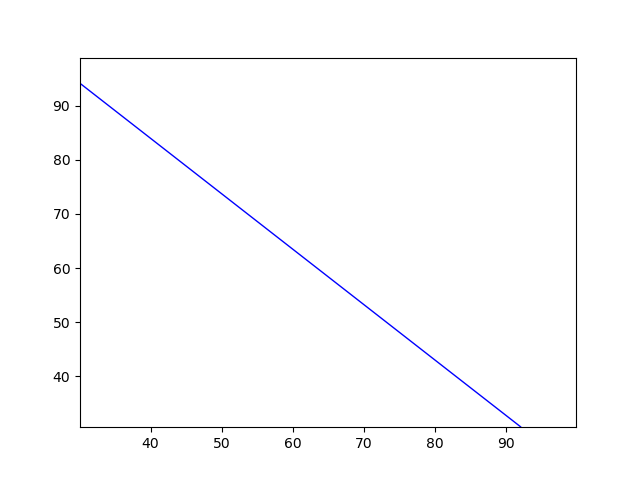
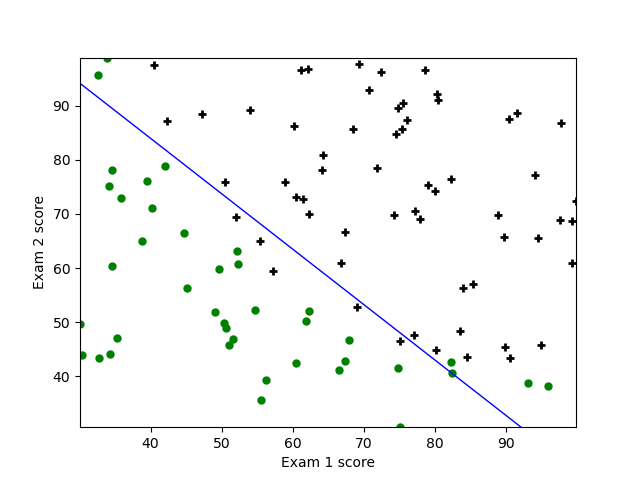
avanzando con la p2

diff --git a/p2/p2_2.py b/p2/p2_2.py
@@ -1,0 +1,129 @@
+
+import numpy as np
+import matplotlib.pyplot as plt
+from numpy.lib import polynomial
+import scipy.optimize as opt
+import math
+import sklearn.preprocessing as sp
+from mpl_toolkits.mplot3d import Axes3D
+from matplotlib import cm
+from matplotlib.ticker import LinearLocator, FormatStrFormatter
+from pandas.io.parsers import read_csv
+
+# Calcula la funcion sigmoide 
+def sigmoide(z):
+    return 1/(1+math.e**(-z))
+
+# 2.2 Calcula el coste (regularizado)
+def coste(theta, X, Y ,_lambda):
+    H = sigmoide(np.matmul(X,theta)) # dot?
+    m = np.shape(X)[0]
+    #esto funciona por el tamaño de las matrices. usamos la formula con las traspuestas
+    #coste = (-1 / m) * (np.dot(Y, np.log(H)) + np.dot((1-Y),np.log(1 - H)))
+    
+    coste = (- 1 / (len(X))) * np.sum( Y * np.log(H) + (1 - Y) * np.log(1 - H) )
+
+    regularizacion = (_lambda /(2+m) ) * np.sum(np.power(theta,2))
+    coste += regularizacion
+    return coste
+
+
+
+# 2.2 Calcula el gradiente (regularizado)
+def gradiente(Theta, X, Y, _lambda):
+    H = sigmoide(np.matmul(X, Theta))
+    m = np.shape(X)[0]
+
+    return (1/m) * np.matmul(np.transpose(X), H - Y) + ((_lambda / m ) * Theta)
+
+# #Devuelve el theta que buscamos
+# def descenso_gradiente(X,Y,Theta):
+#     costes = np.zeros(10)    
+#     for a in range(10):
+#         Theta=gradiente(Theta, X,Y)
+#         costes[a]=coste(Theta, X,Y)   
+#     return Theta
+
+
+
+
+def plot_decisionboundary(X, Y, theta, poly):
+    #plt.figure()
+    x1_min, x1_max = np.min(X[:, 0]), np.max(X[:, 0])#min y max de x1
+    x2_min, x2_max = np.min(X[:, 1]), np.max(X[:, 1])#min y max de x2
+    xx1, xx2 = np.meshgrid(np.linspace(x1_min, x1_max), np.linspace(x2_min, x2_max))
+    #poly=sp.PolynomialFeatures(6)
+    #
+    #h = sigmoide(np.dot(np.c_[np.ones((np.ravel(xx1).shape[0], 1)), np.ravel(xx1), np.ravel(xx2 )],theta))
+    # print(np.shape(aux))
+    # print(np.shape(theta))
+    h = sigmoide(np.dot(poly.fit_transform(np.c_[np.ravel(xx1),np.ravel(xx2 )]) ,theta))
+    h = np.reshape(h,np.shape(xx1))
+    plt.contour(xx1, xx2, h, [0.5], linewidths=1, colors='g')
+    plt.savefig("prueba.png")
+    plt.close()
+
+
+# def pinta_frontera(Theta, X, Y):
+#     #plt.figure()
+#     x1_min, x1_max = np.min(X[:, 1]), np.max(X[:, 1])#min y max de x1
+#     x2_min, x2_max = np.min(X[:, 2]), np.max(X[:, 2])#min y max de x2
+
+#     xx1, xx2 = np.meshgrid(np.linspace(x1_min, x1_max), np.linspace(x2_min, x2_max))
+
+#     #np.ones añade una columna de 1s
+#     h = sigmoide(np.dot(np.c_[np.ones((np.ravel(xx1).shape[0], 1)),
+#                  np.ravel(xx1), #vector columna
+#                 np.ravel(xx2 )],Theta))
+    
+#     h = np.reshape(h, np.shape(xx1))
+
+#     # el cuarto parámetro es el valor de z cuya frontera se quiere pintar
+#     plt.contour(xx1, xx2, h, [0.5], linewidths=1, colors='b')
+#     plt.savefig("frontera.png")
+#     plt.close()
+
+def main():
+    valores = read_csv("ex2data2.csv", header=None).to_numpy()
+    X = valores[:, :-1]
+    Y = valores[:, -1]
+    n = np.shape(X)[1]  
+    m = np.shape(X)[0]
+
+    #apartado 2.1
+    poly = sp.PolynomialFeatures(6).fit_transform(X)
+    
+    #print(np.shape(X)[1])
+
+
+    #X=np.hstack([np.ones([m,1]), X])
+    #print(X)
+    Theta = np.zeros(np.shape(poly)[1])
+    print(np.shape(poly)[1])
+    print(np.shape(Theta))
+
+    # 2.1 Grafica de los valores
+    pos = np.where(Y == 1)
+    plt.scatter(poly[pos, 1], poly[pos, 2], marker = '+', c='k', linewidths=2.0)
+    pos = np.where(Y == 0)
+    plt.scatter(poly[pos, 1], poly[pos, 2], marker = '.', c='green', linewidths=3.0)
+    plt.xlabel('Microchip test 1')
+    plt.ylabel('Microchip test 2')
+
+    #plt.legend('Admitted')
+    
+    #plt.show()  
+    #print(coste(Theta, X, Y, 1000))
+    #print(gradiente(Theta,X, Y, 1))
+    _lamda = 1000
+    result=opt.fmin_tnc(func=coste, x0 = Theta, fprime = gradiente, args=(poly, Y, _lamda))
+    theta_opt = result[0]
+
+    #print(np.shape(theta_opt)[0])
+
+    plt.savefig("prueba.png")
+    plot_decisionboundary(X,Y,theta_opt, poly)
+
+   
+
+main()

diff --git a/p2/p2_1.py b/p2/p2_1.py
@@ -35,7 +35,7 @@ def gradiente(Theta, X, Y):
 #     return Theta
 
 def pinta_frontera(Theta, X, Y):
-    plt.figure()
+    #plt.figure()
     x1_min, x1_max = np.min(X[:, 1]), np.max(X[:, 1])#min y max de x1
     x2_min, x2_max = np.min(X[:, 2]), np.max(X[:, 2])#min y max de x2
 
@@ -75,7 +75,9 @@ def main():
 
     #plt.legend('Admitted')
     
-    plt.show()
+    #plt.show()  
+    plt.savefig("frontera.png")
+
     #print(coste(Theta,X,Y))
     #print(gradiente(Theta, X, Y))
     result=opt.fmin_tnc(func=coste, x0 = Theta, fprime = gradiente, args=(X, Y))
